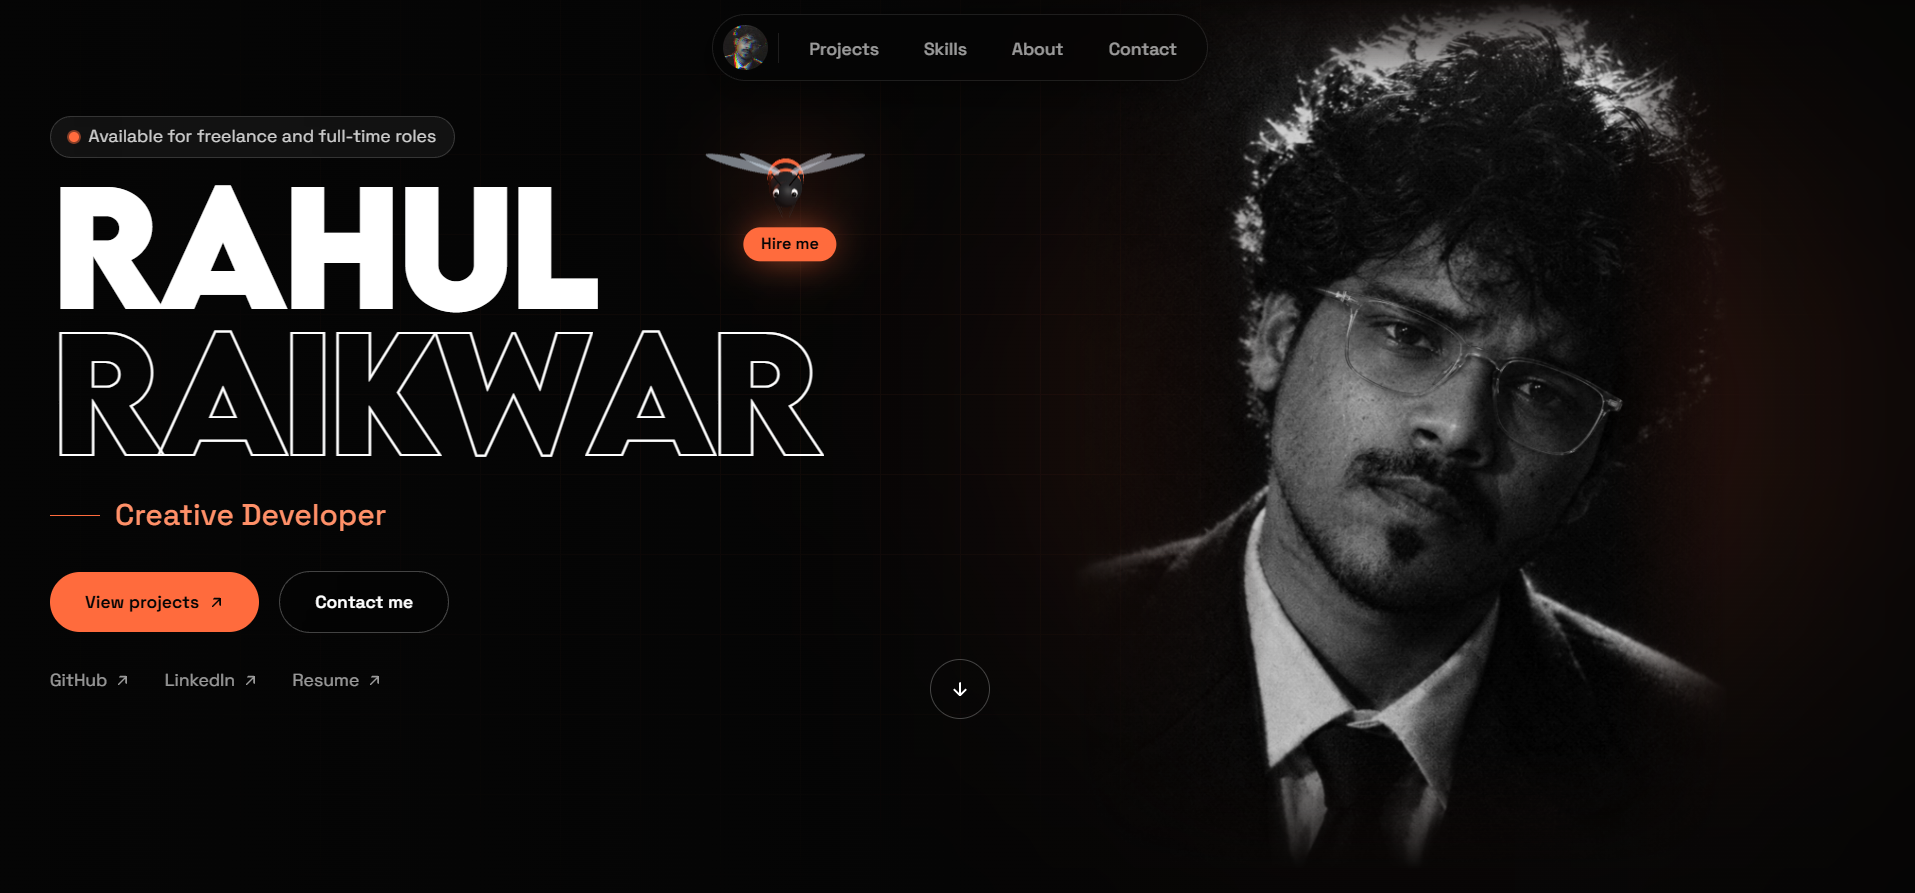
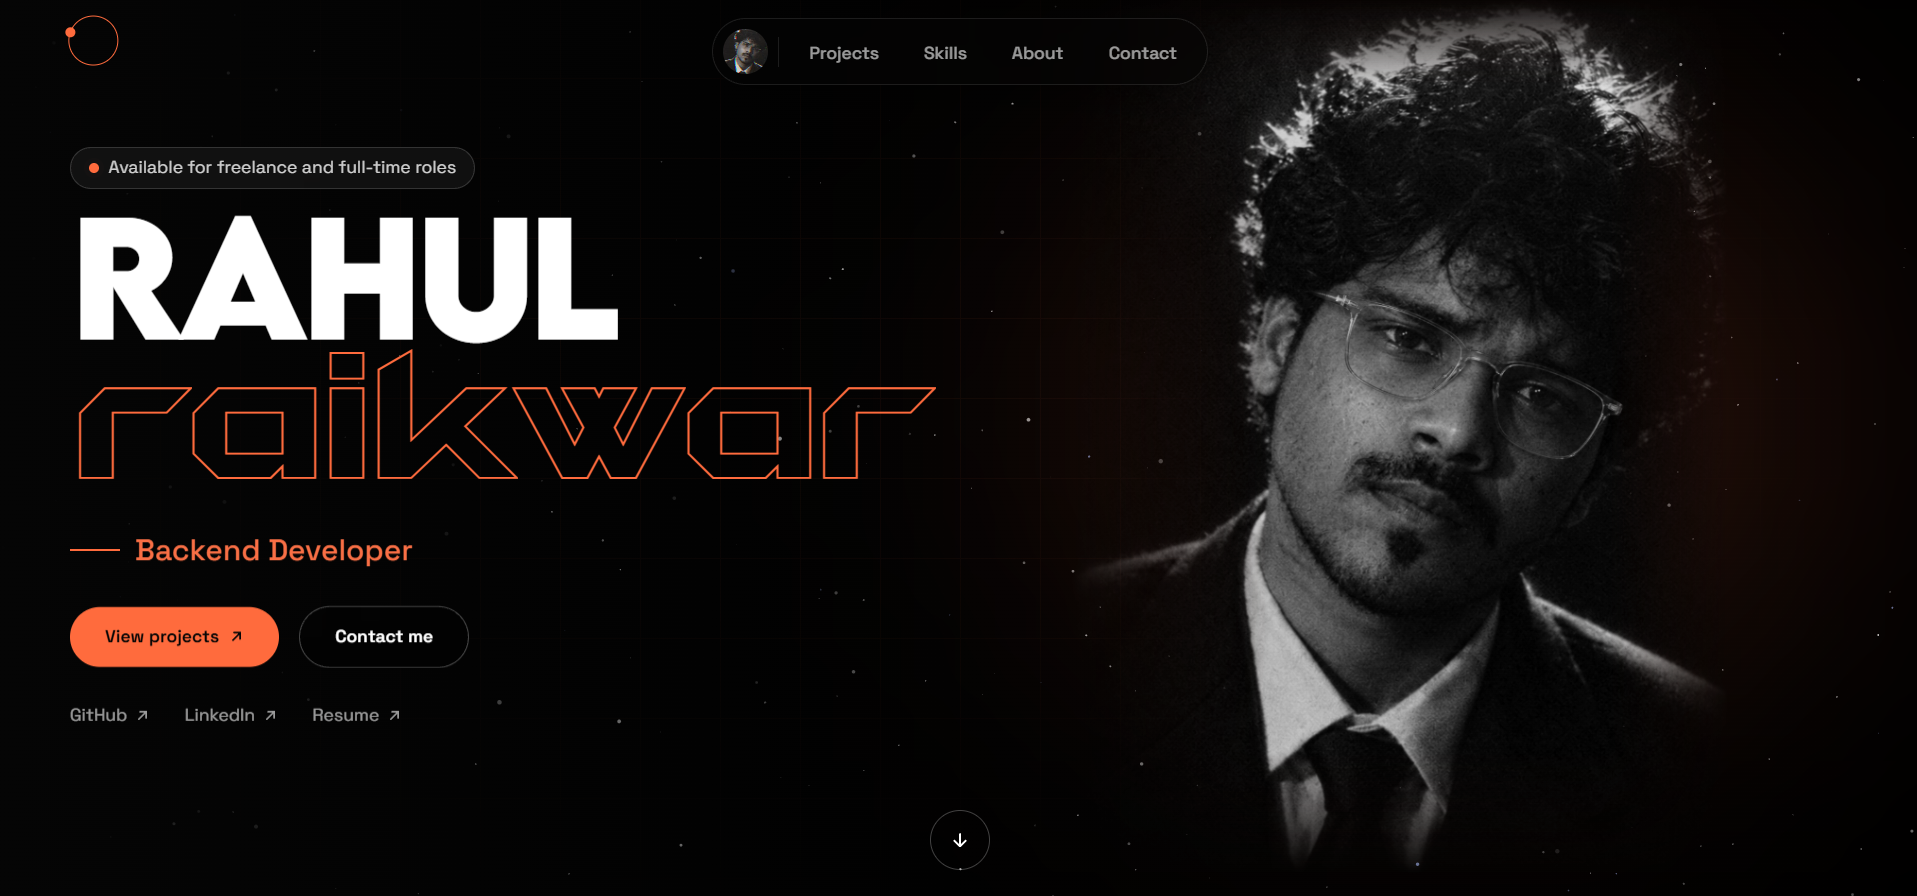
feat: add ScrollSqueeze component and integrate StarField in App, update styles in multiple components

diff --git a/src/components/HeroSection.jsx b/src/components/HeroSection.jsx
@@ -1,7 +1,9 @@
 import { useEffect, useLayoutEffect, useRef, useState } from "react";
 import gsap from "gsap";
+import { ScrollTrigger } from "gsap/ScrollTrigger";
 import PsychedelicText from "./PsychedelicText";
-import StarField from "./StarField.jsx";
+
+gsap.registerPlugin(ScrollTrigger);
 
 const IMAGE_SRC = "/me2.png";
 const NAME = "Rahul";
@@ -243,6 +245,40 @@ const HeroSection = ({ ready = true }) => {
     if (ready) timelineRef.current?.play();
   }, [ready]);
 
+  useLayoutEffect(() => {
+    const about = document.querySelector("#about");
+    const hero = containerRef.current;
+    if (!about || !hero) return;
+
+    const mm = gsap.matchMedia();
+
+    mm.add("(prefers-reduced-motion: no-preference)", () => {
+      gsap.set(hero, { transformOrigin: "50% 100%" });
+
+      gsap.to(hero, {
+        autoAlpha: 0,
+        scale: 0.92,
+        yPercent: -12,
+        ease: "none",
+        scrollTrigger: {
+          trigger: about,
+          start: "top bottom",
+          end: "top top",
+          scrub: true,
+        },
+      });
+    });
+
+    mm.add("(prefers-reduced-motion: reduce)", () => {
+      hero.style.position = "relative";
+      return () => {
+        hero.style.position = "";
+      };
+    });
+
+    return () => mm.revert();
+  }, []);
+
   const renderName = (word) => (
     <span className="block overflow-hidden pb-[0.08em] lemonmilk-font">
       {word.split("").map((letter, index) => (
@@ -263,26 +299,18 @@ const HeroSection = ({ ready = true }) => {
     <div
       ref={containerRef}
       id="home"
-      className="relative h-[100svh] min-h-[560px] w-full overflow-hidden text-white md:min-h-[620px]"
+      data-no-squeeze
+      className="sticky top-0 z-0 h-[100svh] min-h-[560px] w-full overflow-hidden text-white will-change-transform md:min-h-[620px]"
     >
-      <StarField seed={33} count={260} />
-
-      <div
-        className="pointer-events-none absolute inset-0 opacity-[0.08]"
-        style={{
-          backgroundImage:
-            "linear-gradient(#ff6b3d 1px, transparent 1px), linear-gradient(90deg, #ff6b3d 1px, transparent 1px)",
-          backgroundSize: "64px 64px",
-          ...mask(
-            "radial-gradient(ellipse 70% 60% at 30% 40%, black, transparent)",
-          ),
-        }}
-      />
+  
 
       <div className="pointer-events-none absolute right-[6%] top-[18%] hidden h-[55vh] w-[38vw] rounded-full bg-[#ff6b3d]/20 blur-[130px] md:block" />
 
       <div className="absolute inset-x-0 top-0 h-[60svh] pt-16 sm:pt-20 md:inset-x-auto md:bottom-[30px] md:right-[6vw] md:h-auto md:pt-0 lg:right-[10vw]">
-        <div className="mx-auto h-full max-w-[560px] md:mx-0 md:max-w-none" style={mask(horizontalMask)}>
+        <div
+          className="mx-auto h-full max-w-[560px] md:mx-0 md:max-w-none"
+          style={mask(horizontalMask)}
+        >
           <div className="h-full" style={mask(verticalMask)}>
             <div className="relative h-full">
               <div

diff --git a/src/components/ScrollSqueeze.jsx b/src/components/ScrollSqueeze.jsx
@@ -1,0 +1,87 @@
+import { useEffect } from "react";
+import gsap from "gsap";
+
+const docTop = (el) => {
+  let top = 0;
+  let node = el;
+  while (node) {
+    top += node.offsetTop;
+    node = node.offsetParent;
+  }
+  return top;
+};
+
+const ScrollSqueeze = ({
+  selector = "main > *:not([data-no-squeeze])",
+  maxCompress = 0.06,
+  fullAt = 25,
+}) => {
+  useEffect(() => {
+    const reduceMotion = window.matchMedia(
+      "(prefers-reduced-motion: reduce)",
+    ).matches;
+    if (reduceMotion) return;
+
+    const targets = gsap.utils.toArray(selector);
+    const items = targets.map((el) => ({
+      el,
+      set: gsap.quickTo(el, "scaleY", { duration: 0.45, ease: "power3.out" }),
+    }));
+
+    gsap.set(targets, { willChange: "transform" });
+
+    let lenis = null;
+    let retry;
+    let idle;
+
+    const apply = (value) => {
+      const vh = window.innerHeight;
+      const scrollY = window.scrollY;
+
+      items.forEach(({ el, set }) => {
+        const top = docTop(el);
+        const bottom = top + el.offsetHeight;
+        const visible = bottom > scrollY && top < scrollY + vh;
+
+        if (visible && value !== 1) {
+          gsap.set(el, { transformOrigin: `50% ${scrollY + vh / 2 - top}px` });
+        }
+
+        set(visible ? value : 1);
+      });
+    };
+
+    const onScroll = (l) => {
+      const v = Math.abs(l.velocity || 0);
+      const amount = Math.min(v / fullAt, 1) * maxCompress;
+
+      apply(1 - amount);
+
+      clearTimeout(idle);
+      idle = setTimeout(() => apply(1), 150);
+    };
+
+    const attach = () => {
+      lenis = window.lenis;
+      if (!lenis) {
+        retry = setTimeout(attach, 200);
+        return;
+      }
+      lenis.on("scroll", onScroll);
+    };
+    attach();
+
+    return () => {
+      clearTimeout(idle);
+      clearTimeout(retry);
+      lenis?.off?.("scroll", onScroll);
+      gsap.set(targets, {
+        clearProps: "transform,willChange,transformOrigin",
+      });
+    };
+  }, [selector, maxCompress, fullAt]);
+
+  return null;
+};
+
+export default ScrollSqueeze;

diff --git a/src/App.jsx b/src/App.jsx
@@ -12,6 +12,8 @@ import CustomCursor from "./components/CustomCursor";
 import Contact from "./components/Contact";
 import Marquee from "./components/marquee";
 import Loader from "./components/Loader.jsx";
+import ScrollSqueeze from "./components/ScrollSqueeze.jsx";
+import StarField from "./components/StarField.jsx";
 
 gsap.registerPlugin(ScrollTrigger);
 
@@ -31,7 +33,6 @@ const App = () => {
       smoothWheel: true,
     });
 
-    // Scrolling stays locked until the loader has fully left the screen.
     lenis.stop();
     window.lenis = lenis;
 
@@ -63,7 +64,9 @@ const App = () => {
   };
 
   return (
-    <div className="w-full min-h-screen bg-black">
+    <div className="relative isolate min-h-screen w-full bg-black">
+      <StarField fixed className="-z-10" count={100} seed={33} />
+
       <Loader
         images={[HERO_IMAGE]}
         onReveal={handleReveal}
@@ -71,6 +74,7 @@ const App = () => {
       />
       <CustomCursor />
 
+      <ScrollSqueeze maxCompress={0.3} fullAt={30} />
       <Navbar />
 
       <main>

diff --git a/src/components/Contact.jsx b/src/components/Contact.jsx
@@ -4,7 +4,6 @@ import { ScrollTrigger } from "gsap/ScrollTrigger";
 import { ArrowUpRight, Check, Copy, Mail, Phone } from "lucide-react";
 import { FaGithub, FaLinkedinIn, FaWhatsapp } from "react-icons/fa";
 import { BsDiscord } from "react-icons/bs";
-import StarField from "./StarField";
 
 gsap.registerPlugin(ScrollTrigger);
 
@@ -253,8 +252,6 @@ const Contact = () => {
         <div className="absolute right-[-30%] top-[5%] h-[320px] w-[320px] rounded-full bg-white/[0.045] blur-[100px] sm:right-[-10%] sm:top-[10%] sm:h-[560px] sm:w-[560px] sm:blur-[130px]" />
 
         <div className="absolute bottom-[-10%] left-[-20%] h-[280px] w-[280px] rounded-full bg-[#4a64d8]/10 blur-[100px] sm:bottom-[-15%] sm:left-[-8%] sm:h-[420px] sm:w-[420px] sm:blur-[130px]" />
-
-        <StarField seed={11} count={260} cluster />
 
         {!imageFailed && (
           <img

diff --git a/src/components/About.jsx b/src/components/About.jsx
@@ -3,7 +3,6 @@ import { gsap } from "gsap";
 import { ScrollTrigger } from "gsap/ScrollTrigger";
 import { SplitText } from "gsap/SplitText";
 import PsychedelicText from "./PsychedelicText.jsx";
-import StarField from "./StarField.jsx";
 
 gsap.registerPlugin(ScrollTrigger, SplitText);
 
@@ -75,9 +74,8 @@ const About = () => {
     <section
       ref={sectionRef}
       id="about"
-      className="relative w-full overflow-hidden bg-[#000] px-5 py-28 text-white sm:px-8 md:py-36 lg:px-12"
+      className="relative z-10 w-full overflow-hidden px-5 py-28 text-white sm:px-8 md:py-36 lg:px-12"
     >
-      <StarField seed={33} count={260} />
       <div className="pointer-events-none absolute -left-40 top-1/3 h-96 w-96 rounded-full bg-[#FF6B3D]/10 blur-[140px]" />
 
       <div

diff --git a/src/components/Skills.jsx b/src/components/Skills.jsx
@@ -17,7 +17,6 @@ import {
 } from "react-icons/si";
 
 import { MousePointerClick, Hand } from "lucide-react";
-import StarField from "./StarField.jsx";
 
 const skills = [
   {
@@ -342,10 +341,10 @@ const Skills = () => {
       ref={sectionRef}
       onClick={handleSectionClick}
       id="skills"
-      className="relative w-full overflow-hidden bg-[#000] text-white"
+      className="relative w-full overflow-hidden text-white"
       style={{ minHeight: `max(100svh, ${size + 260}px)` }}
     >
-       <StarField seed={33} count={260} />
+      
       <div className="relative z-20 px-4 pt-20 text-center md:pt-24">
         <p className="text-[10px] uppercase tracking-[0.4em] text-white/35 md:tracking-[0.5em]">
           What I Work With

diff --git a/src/components/Projects.jsx b/src/components/Projects.jsx
@@ -5,7 +5,7 @@ import project1 from "../assets/images/project1.png";
 import project2 from "../assets/images/project2.png";
 import project3 from "../assets/images/project3.png";
 import PsychedelicText from "./PsychedelicText.jsx";
-import StarField from "./StarField.jsx";
+
 
 const projects = [
   {
@@ -169,7 +169,7 @@ const Projects = () => {
       className="relative min-h-screen w-full overflow-hidden text-white"
       id="projects"
     >
-      <StarField seed={21} />
+     
 
       <div className="relative z-10 flex min-h-screen flex-col items-center">
         <div className="absolute top-[9%] z-30 text-center">

diff --git a/src/components/StarField.jsx b/src/components/StarField.jsx
@@ -51,6 +51,7 @@ const StarField = ({
   count = 200,
   seed = 11,
   cluster = false,
+  fixed = false,
   className = "",
 }) => {
   const canvasRef = useRef(null);
@@ -137,7 +138,9 @@ const StarField = ({
     <canvas
       ref={canvasRef}
       aria-hidden="true"
-      className={`pointer-events-none absolute inset-0 h-full w-full ${className}`}
+      className={`pointer-events-none inset-0 h-full w-full ${
+        fixed ? "fixed" : "absolute"
+      } ${className}`}
     />
   );
 };

diff --git a/src/components/marquee.jsx b/src/components/marquee.jsx
@@ -20,7 +20,6 @@ import {
   HardDrive,
   Send,
 } from "lucide-react";
-import StarField from "./StarField";
 
 const FRONTEND = [
   { name: "React", icon: Atom },
@@ -93,7 +92,7 @@ const Marquee = () => (
       @media (prefers-reduced-motion: reduce) { .skills-track { animation: none; } }
     `}</style>
 
-    <StarField seed={33} count={160} />
+
 
  
     <div
